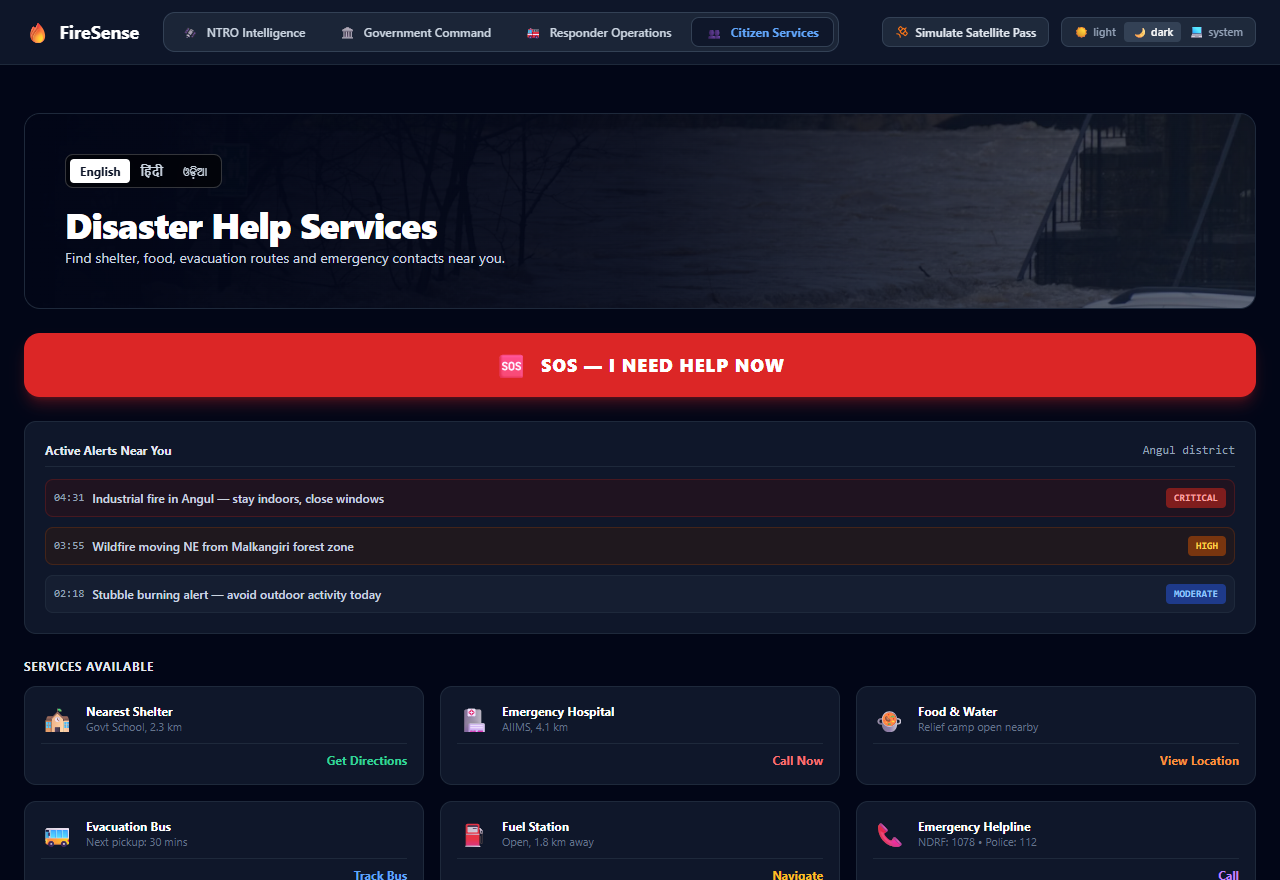
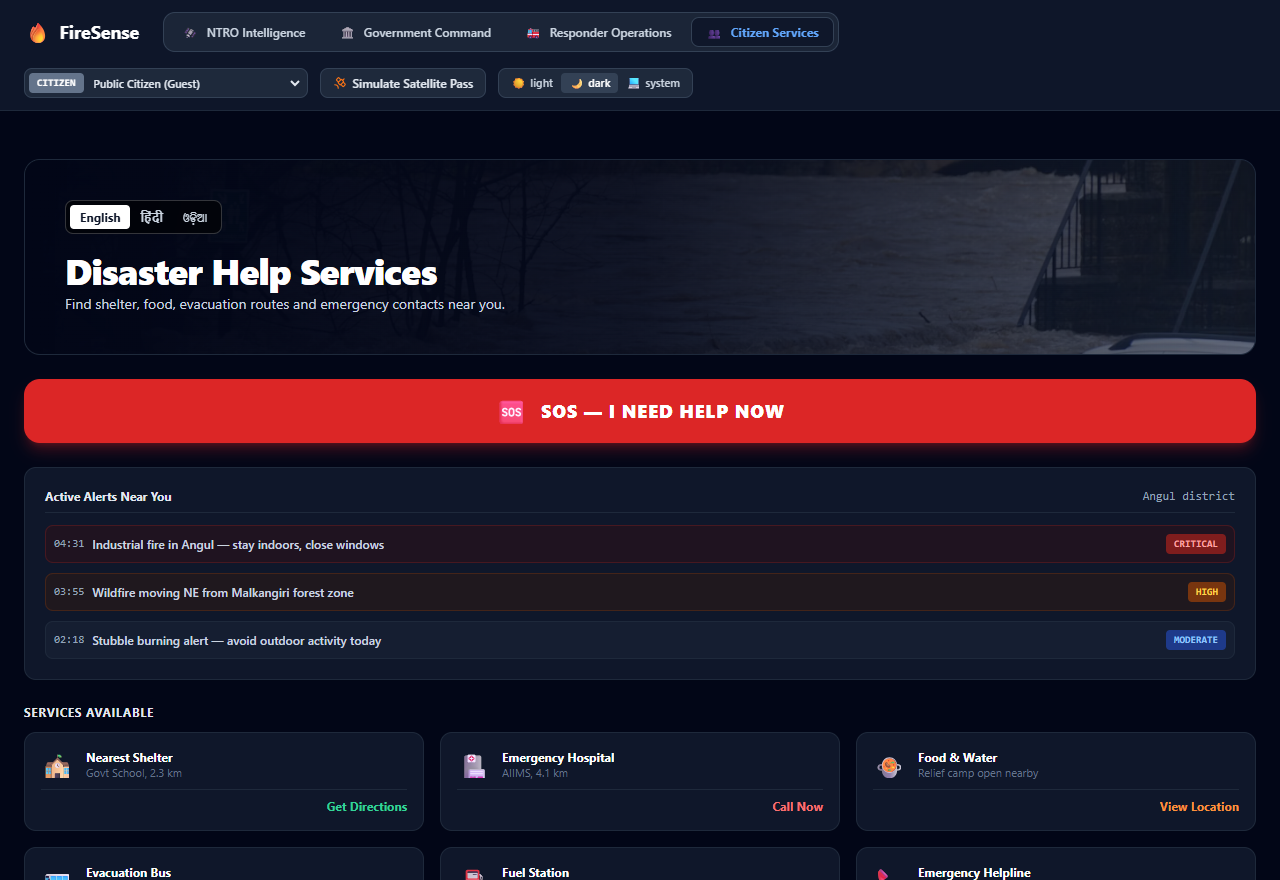
feat: implement role-based dashboard encapsulation, remove intrusive auth-gate, fix DOM nesting and ES6 syntax errors

diff --git a/static/index.html b/static/index.html
@@ -30,49 +30,6 @@
 </head>
 <body class="bg-slate-50 text-slate-800 dark:bg-slate-950 dark:text-slate-100 min-h-screen font-sans antialiased selection:bg-orange-500 selection:text-white transition-colors duration-150">
 
-<!-- AUTH GATE (demo credentials, session-only) -->
-<div id="auth-gate" class="fixed inset-0 z-[60] hidden">
-  <div class="absolute inset-0 grid lg:grid-cols-2">
-    <div class="relative hidden lg:block overflow-hidden bg-slate-950">
-      <div class="absolute inset-0 bg-cover bg-center opacity-60" style="background-image:url('/static/media/hero_india_night.jpg')"></div>
-      <div class="absolute inset-0" style="background:linear-gradient(115deg, rgba(10,12,16,.55) 0%, rgba(10,12,16,.2) 55%, rgba(10,12,16,.85) 100%)"></div>
-      <div class="absolute bottom-10 left-10 right-10">
-        <div class="font-mono text-[10px] tracking-[.25em] text-orange-400 mb-3">SUOMI NPP &middot; VIIRS DNB &middot; PUBLIC DOMAIN IMAGERY</div>
-        <p class="text-slate-200 text-lg font-light max-w-sm leading-relaxed">Every response begins with a signal detected from orbit.</p>
-      </div>
-    </div>
-    <div class="relative bg-[#f6f5f2] dark:bg-slate-950 flex items-center justify-center p-8">
-      <div class="w-full max-w-sm">
-        <div class="flex items-center gap-2 mb-10">
-          <span class="w-2.5 h-2.5 rounded-full bg-orange-500"></span>
-          <span class="font-bold text-slate-900 dark:text-white text-lg">FireSense</span>
-          <span class="ml-auto font-mono text-[10px] tracking-widest text-slate-500 dark:text-slate-400 border border-slate-300 dark:border-slate-700 rounded-full px-2.5 py-1">DEMO ENVIRONMENT</span>
-        </div>
-        <h1 class="text-2xl font-bold tracking-tight text-slate-900 dark:text-white mb-2">Authorized access</h1>
-        <p class="text-sm text-slate-600 dark:text-slate-400 mb-8">Enter the FireSense operational environment. Credentials are simulated in this demo.</p>
-        <label class="block text-xs font-semibold text-slate-700 dark:text-slate-300 mb-1.5" for="auth-operator">Operator ID</label>
-        <input id="auth-operator" type="text" value="analyst@ntro.gov.in" autocomplete="username"
-          class="w-full mb-5 px-3.5 py-2.5 rounded-lg bg-white dark:bg-slate-900 border border-slate-300 dark:border-slate-700 text-slate-900 dark:text-white text-sm outline-none focus:border-orange-500 focus:ring-2 focus:ring-orange-500/20">
-        <label class="block text-xs font-semibold text-slate-700 dark:text-slate-300 mb-1.5" for="auth-key">Authentication key</label>
-        <input id="auth-key" type="password" value="demo-access-key" autocomplete="current-password"
-          class="w-full mb-6 px-3.5 py-2.5 rounded-lg bg-white dark:bg-slate-900 border border-slate-300 dark:border-slate-700 text-slate-900 dark:text-white text-sm outline-none focus:border-orange-500 focus:ring-2 focus:ring-orange-500/20">
-        <label class="block text-xs font-semibold text-slate-700 dark:text-slate-300 mb-1.5" for="auth-role">Demo role</label>
-        <select id="auth-role" class="w-full mb-6 px-3.5 py-2.5 rounded-lg bg-white dark:bg-slate-900 border border-slate-300 dark:border-slate-700 text-slate-900 dark:text-white text-sm">
-          <option value="analyst">Analyst — NTRO Intelligence</option>
-          <option value="authority">Authority — Government Command</option>
-          <option value="responder">Responder — Field Operations</option>
-          <option value="admin">Administrator</option>
-        </select>
-        <button id="auth-submit" class="w-full py-3 rounded-lg bg-orange-600 hover:bg-orange-700 text-white font-bold text-sm transition-colors">Authenticate &amp; continue</button>
-        <p id="auth-error" class="hidden mt-3 text-xs text-red-600 dark:text-red-400"></p>
-        <div class="mt-8 pt-6 border-t border-slate-200 dark:border-slate-800 flex items-center justify-between text-xs">
-          <span class="text-slate-500 dark:text-slate-400">Simulated data &middot; no live dispatch</span>
-          <button id="auth-citizen" class="font-bold text-orange-600 dark:text-orange-400 hover:underline">Citizen safety &rarr;</button>
-        </div>
-      </div>
-    </div>
-  </div>
-</div>
 
 
     <!-- Top Navigation Bar -->
@@ -93,7 +50,6 @@
                     <span>🏛</span> <span>Government Command</span>
                 </button>
                 <button onclick="switchPortal('responder')" id="tab-responder" class="flex items-center gap-2 px-3.5 py-1.5 rounded-lg text-slate-600 dark:text-slate-300 hover:text-slate-900 dark:hover:text-white transition-all">
-                    <span>🚒</span> <span>First Responder</span>
                     <span>🚒</span> <span>Responder Operations</span>
                 </button>
                 <button onclick="switchPortal('citizen')" id="tab-citizen" class="flex items-center gap-2 px-3.5 py-1.5 rounded-lg text-slate-600 dark:text-slate-300 hover:text-slate-900 dark:hover:text-white transition-all">
@@ -602,29 +558,10 @@
                 </div>
             </div>
         </div>
+        </div>
         </div><!-- /portal-command -->
 
         <!-- ========================================== -->
-        <!-- PORTAL 4: FIRST RESPONDER OPERATIONS VIEW  -->
-        <!-- ========================================== -->
-        <div id="portal-responder" class="hidden space-y-6">
-            <!-- Header Banner -->
-            <div class="relative overflow-hidden rounded-2xl border border-slate-200 dark:border-slate-800 bg-white dark:bg-slate-900 shadow-sm p-6 sm:p-8">
-                <div class="relative z-10 flex flex-wrap items-center justify-between gap-4">
-                    <div class="space-y-1">
-                        <div class="text-xs font-mono font-bold tracking-wider text-orange-600 dark:text-orange-400 uppercase">
-                            FIELD UNIT OPERATIONAL CONSOLE &bull; DISASTER TASKING
-                        </div>
-                        <h2 class="text-2xl sm:text-3xl font-bold tracking-tight text-slate-900 dark:text-white">
-                            First Responder Deployment &amp; Tracking
-                        </h2>
-                        <p class="text-xs sm:text-sm text-slate-500 dark:text-slate-400">
-                            Canonical State Machine Progression &bull; Verified GPS &bull; Tasking Lifecycle
-                        </p>
-                    </div>
-                    <div class="flex items-center gap-2 px-3 py-1 rounded-full bg-orange-50 dark:bg-orange-950/60 border border-orange-200 dark:border-orange-800 text-orange-600 dark:text-orange-400 text-xs font-bold font-mono">
-                        <span class="w-2 h-2 rounded-full bg-orange-500 live-pulse"></span>
-                        <span>TACTICAL STATUS</span>
         <!-- PORTAL 3: RESPONDER OPERATIONS VIEW        -->
         <!-- ========================================== -->
         <div id="portal-responder" class="hidden space-y-6">

diff --git a/static/app.js b/static/app.js
@@ -1,7 +1,8 @@
 // FireSense Client Application - SIH26162
 // Enterprise Geospatial Thermal Anomaly Intelligence & Disaster Response
 
-let currentPortal = 'command';
+const _qp = new URLSearchParams(window.location.search).get('portal');
+let currentPortal = ['ntro', 'command', 'responder', 'citizen'].includes(_qp) ? _qp : 'command';
 let currentNtroFilter = 'all';
 let currentLanguage = 'en';
 let selectedIncidentId = null;
@@ -16,6 +17,11 @@ const Auth = {
     role: sessionStorage.getItem('firesense_role') || 'analyst',
 
     async init() {
+        const qp = new URLSearchParams(window.location.search).get('portal');
+        if (qp === 'citizen') {
+            await this.switchRole('citizen', false);
+            return;
+        }
         if (this.token) {
             try {
                 const me = await this.getMe();
@@ -28,8 +34,9 @@ const Auth = {
                 sessionStorage.removeItem('firesense_jwt');
             }
         }
-        // Auto-authenticate as default demo analyst if clean session
-        await this.switchRole('analyst', false);
+        const qpRoleMap = { ntro: 'analyst', command: 'authority', responder: 'responder', citizen: 'citizen' };
+        const initialRole = (qp && qpRoleMap[qp]) ? qpRoleMap[qp] : (sessionStorage.getItem('firesense_role') || 'analyst');
+        await this.switchRole(initialRole, false);
     },
 
     async login(email, password) {
@@ -107,6 +114,39 @@ const Auth = {
         if (select && select.value !== this.role) {
             select.value = this.role;
         }
+
+        // Role-based encapsulation of top navigation:
+        // Admin: all dashboards accessible
+        // Analyst: only NTRO
+        // Authority: only Government Command
+        // Responder: only Responder Operations
+        // Citizen: only Citizen Services
+        const role = this.role || 'analyst';
+        const roleTabs = {
+            admin: ['ntro', 'command', 'responder', 'citizen'],
+            analyst: ['ntro'],
+            authority: ['command'],
+            responder: ['responder'],
+            citizen: ['citizen']
+        };
+        const allowed = roleTabs[role] || ['ntro', 'command', 'responder', 'citizen'];
+
+        ['ntro', 'command', 'responder', 'citizen'].forEach(p => {
+            const tab = document.getElementById(`tab-${p}`);
+            if (tab) {
+                if (allowed.includes(p)) {
+                    tab.classList.remove('hidden');
+                } else {
+                    tab.classList.add('hidden');
+                }
+            }
+        });
+
+        // If current portal is not allowed for this role, auto-switch to authorized dashboard
+        if (!allowed.includes(currentPortal)) {
+            const target = allowed[0];
+            if (target) switchPortal(target);
+        }
     }
 };
 
@@ -128,17 +168,17 @@ async function apiFetch(url, options = {}) {
             const errCode = data.error?.code || `HTTP_${resp.status}`;
             const errMsg = data.error?.message || data.detail || 'API request rejected';
             throw new Error(`[${errCode}] ${errMsg}`);
-document.addEventListener('DOMContentLoaded', () => {
-    lucide.createIcons();
-    // deep link: /app?portal=citizen|command|ntro|responder (from landing page CTAs)
-    const qp = new URLSearchParams(location.search).get('portal');
-    if (['ntro', 'command', 'responder', 'citizen'].includes(qp)) switchPortal(qp);
-    renderNtroIncidents();
-    renderCmdZones();
-    selectZone('angul');
-    selectNtroIncident('INC-2846');
-    loadLiveStats();
-});
+        }
+        return data;
+    } catch (err) {
+        if (err.message && err.message.includes('Failed to fetch')) {
+            showToast('Backend server connection refused on port 8000', 'error');
+        }
+        throw err;
+    }
+}
+
+
 
 // Real platform stats from the backend classification pipeline
 async function loadLiveStats() {
@@ -166,30 +206,6 @@ function downloadGeoJSON() {
     a.download = 'aerothermal_classified_hotspots.geojson';
     a.click();
     URL.revokeObjectURL(a.href);
-}
-
-// Portal Switching
-function switchPortal(portalName) {
-    currentPortal = portalName;
-    const portals = ['ntro', 'command', 'responder', 'citizen'];
-    portals.forEach(p => {
-        const el = document.getElementById(`portal-${p}`);
-        const tab = document.getElementById(`tab-${p}`);
-        if (!el || !tab) return;
-        if (p === portalName) {
-            el.classList.remove('hidden');
-            tab.className = "flex items-center gap-2 px-3.5 py-1.5 rounded-lg bg-white dark:bg-slate-900 text-blue-600 dark:text-blue-400 shadow-sm border border-slate-200/80 dark:border-slate-700 transition-all font-bold";
-        } else {
-            el.classList.add('hidden');
-            tab.className = "flex items-center gap-2 px-3.5 py-1.5 rounded-lg text-slate-600 dark:text-slate-300 hover:text-slate-900 dark:hover:text-white transition-all font-semibold";
-        }
-        return data;
-    } catch (err) {
-        if (err.message.includes('Failed to fetch')) {
-            showToast('Backend server connection refused on port 8000', 'error');
-        }
-        throw err;
-    }
 }
 
 // Toast notification system
@@ -899,7 +915,6 @@ function submitSos() {
 let pipelineMap = null;
 let pipelineLayer = null;
 let pipelineMarkers = [];
-let lastPipelineFC = null;
 
 function initPipelineMap() {
     if (pipelineMap) return;
@@ -1024,7 +1039,13 @@ function downloadGeoJSON() {
 
 // App Initialization
 document.addEventListener('DOMContentLoaded', async () => {
+    if (window.lucide) lucide.createIcons();
+    const qp = new URLSearchParams(window.location.search).get('portal');
+    if (['ntro', 'command', 'responder', 'citizen'].includes(qp)) {
+        currentPortal = qp;
+    }
     await Auth.init();
     await loadIncidents();
     switchPortal(currentPortal);
+    loadLiveStats();
 });

diff --git a/static/portal-modules.js b/static/portal-modules.js
@@ -553,67 +553,6 @@ function closeIncDrawer() {
 }
 document.addEventListener('keydown', e => { if (e.key === 'Escape') closeIncDrawer(); });
 
-// ===================== Auth Gate (demo, session-only) =====================
-const ROLE_PORTAL = { analyst: 'ntro', authority: 'command', responder: 'responder', admin: 'command' };
-
-function initAuthGate() {
-  const gate = document.getElementById('auth-gate');
-  if (!gate) return;
-  const qp = new URLSearchParams(window.location.search).get('portal');
-  if (qp === 'citizen') {
-    sessionStorage.setItem('fs-auth', '1');
-    sessionStorage.setItem('fs-role', 'citizen');
-    gate.classList.add('hidden');
-    switchPortal('citizen');
-    return;
-  }
-  if (sessionStorage.getItem('fs-auth') === '1') { gate.classList.add('hidden'); applyRoleSession(); return; }
-  gate.classList.remove('hidden');
-  const submit = document.getElementById('auth-submit');
-  const go = () => {
-    const op = document.getElementById('auth-operator').value.trim();
-    const key = document.getElementById('auth-key').value.trim();
-    const err = document.getElementById('auth-error');
-    if (!op || !key) {
-      err.textContent = 'Enter an operator ID and authentication key to continue.';
-      err.classList.remove('hidden');
-      return;
-    }
-    err.classList.add('hidden');
-    const role = document.getElementById('auth-role').value;
-    sessionStorage.setItem('fs-auth', '1');
-    sessionStorage.setItem('fs-role', role);
-    sessionStorage.setItem('fs-operator', op);
-    gate.classList.add('hidden');
-    applyRoleSession();
-  };
-  submit.addEventListener('click', go);
-  document.getElementById('auth-key').addEventListener('keydown', e => { if (e.key === 'Enter') go(); });
-  document.getElementById('auth-operator').addEventListener('keydown', e => { if (e.key === 'Enter') go(); });
-  document.getElementById('auth-citizen').addEventListener('click', () => {
-    sessionStorage.setItem('fs-auth', '1');
-    sessionStorage.setItem('fs-role', 'citizen');
-    gate.classList.add('hidden');
-    switchPortal('citizen');
-  });
-}
-
-function applyRoleSession() {
-  const qp = new URLSearchParams(window.location.search).get('portal');
-  if (qp && ['ntro', 'command', 'responder', 'citizen'].includes(qp)) {
-    if (qp !== currentPortal) switchPortal(qp);
-  } else {
-    const role = sessionStorage.getItem('fs-role') || 'analyst';
-    const portal = ROLE_PORTAL[role] || 'ntro';
-    if (portal !== currentPortal) switchPortal(portal);
-  }
-  // operator chip in footer
-  const label = document.getElementById('txt-footer-portal-label');
-  if (label) {
-    const op = sessionStorage.getItem('fs-operator') || 'demo';
-    label.textContent = (label.textContent + ' · ' + op).replace('Demo build', 'Demo environment');
-  }
-}
 
 
 // ---------- Detection Feed (demo playback from real pipeline scenarios) ----------
@@ -892,4 +831,4 @@ function submitResponderSitrep() {
   }
 }
 
-initAuthGate();
+

diff --git a/static/style.css b/static/style.css
@@ -95,6 +95,45 @@ html:not(.dark) tr:hover {
     animation: livePulse 2s infinite ease-in-out;
 }
 
+/* NTRO: decision-first workspace. Evidence is deliberately behind a selection. */
+.ntro-heading h2 {
+    letter-spacing: -0.025em;
+}
+
+.ntro-workspace {
+    min-height: 0;
+}
+
+.ntro-dossier {
+    margin-bottom: 2rem;
+}
+
+.ntro-secondary-tools summary::-webkit-details-marker {
+    display: none;
+}
+
+.ntro-secondary-tools summary::after {
+    content: '+';
+    float: right;
+    color: var(--text-muted);
+    font-size: 1rem;
+    line-height: 0.75rem;
+}
+
+.ntro-secondary-tools[open] summary::after {
+    content: '–';
+}
+
+@media (max-width: 640px) {
+    #portal-ntro #pipeline-map {
+        height: 300px;
+    }
+
+    #portal-ntro .ntro-workspace > div:first-child > div:last-child {
+        width: 100%;
+    }
+}
+
 /* Modal overlay */
 .modal-backdrop {
     background: rgba(15, 23, 42, 0.6);

diff --git a/tests/test_ui_portals.py b/tests/test_ui_portals.py
@@ -36,7 +36,6 @@ def run_tests():
     with sync_playwright() as p:
         browser = p.chromium.launch(executable_path=EDGE_PATH, headless=True)
         context = browser.new_context(viewport={"width": 1280, "height": 800})
-        context.add_init_script("sessionStorage.setItem('fs-auth', '1'); sessionStorage.setItem('fs-role', 'admin');")
 
         # ----------------------------------------------------
         # TEST 1: Deep Linking & Portal Isolation

diff --git a/app.py b/app.py
@@ -381,6 +381,9 @@ class AeroThermalHandler(SimpleHTTPRequestHandler):
                     })
                 else:
                     self.send_json({"error": "Incident not found"}, 404)
+            except Exception as e:
+                self.send_json({"error": str(e)}, 500)
+            return
         # --- New operational routes ---
         if path.startswith("/api/incident/") and path.endswith("/alert"):
             parts = path.split("/")

diff --git a/backend/demo_loader.py b/backend/demo_loader.py
@@ -17,6 +17,8 @@ def load_all_scenarios() -> dict:
     global _loaded_scenarios
     if _loaded_scenarios:
         return _loaded_scenarios
+    if not os.path.isdir(DEMO_DIR):
+        return _loaded_scenarios
 
     for fname in sorted(os.listdir(DEMO_DIR)):
         if not fname.endswith(".json"):
